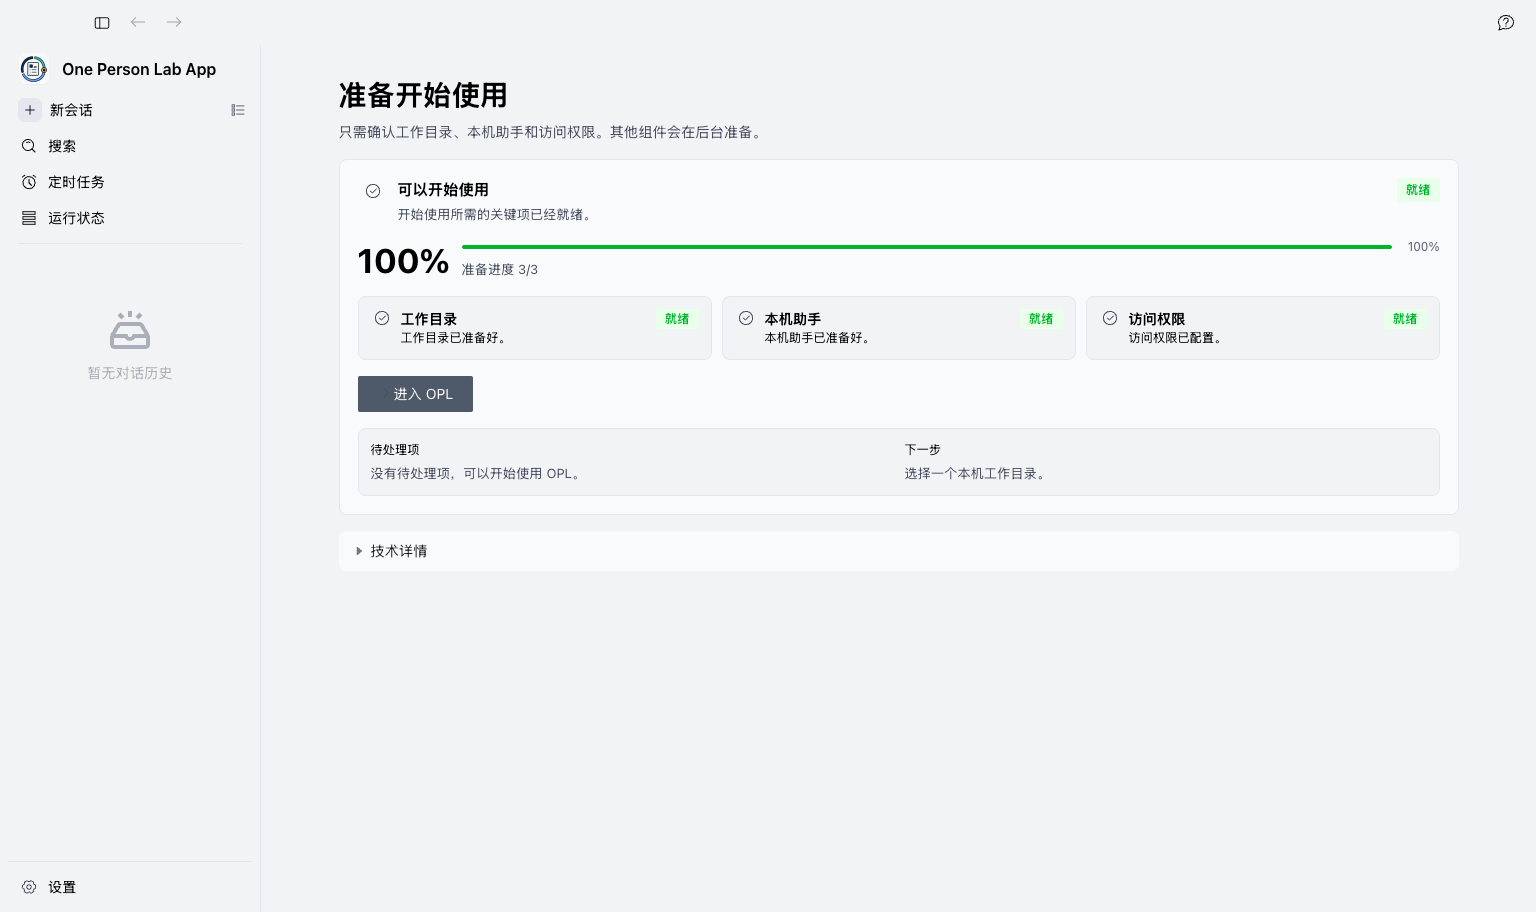
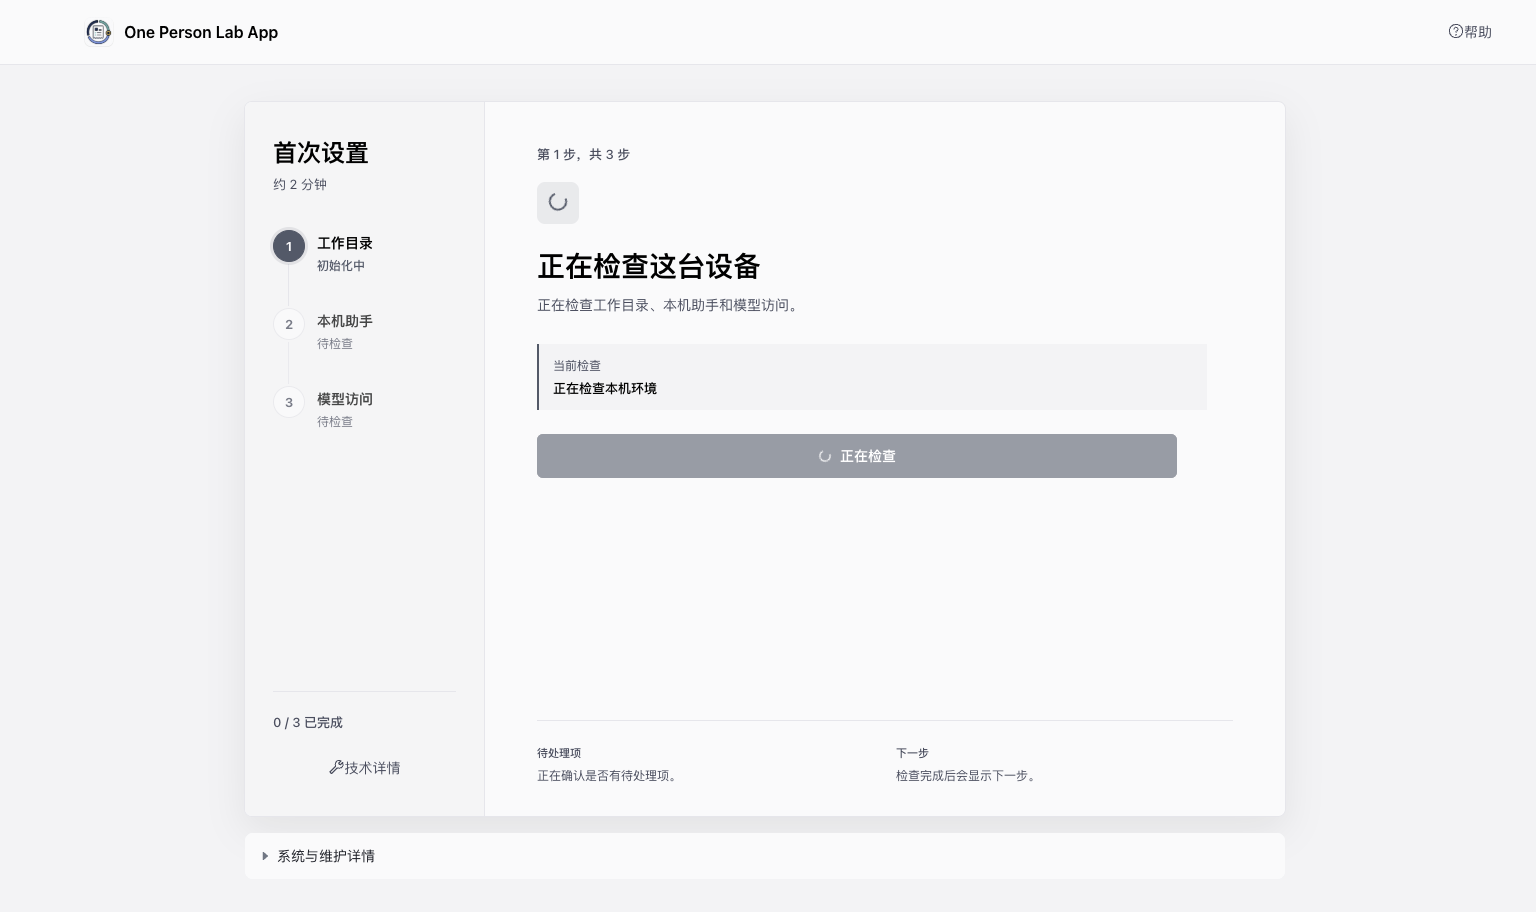
feat: bind focused first-run setup workspace

diff --git a/scripts/validate-active-shell/shell-first-run-validator.ts b/scripts/validate-active-shell/shell-first-run-validator.ts
@@ -4,6 +4,8 @@ import { readShellText } from './shell-implementation-helpers.ts';
 export function validateFirstRunImplementation(shellPaths) {
   const rendererMain = readShellText(shellPaths, 'packages/desktop/src/renderer/main.tsx');
   const appLoader = readShellText(shellPaths, 'packages/desktop/src/renderer/components/layout/AppLoader.tsx');
+  const router = readShellText(shellPaths, 'packages/desktop/src/renderer/components/layout/Router.tsx');
+  const startupGate = readShellText(shellPaths, 'packages/desktop/src/renderer/components/layout/StartupGate.tsx');
   const firstRunPage = readShellText(shellPaths, 'packages/desktop/src/renderer/pages/FirstRun/index.tsx');
   const firstRunStyles = readShellText(shellPaths, 'packages/desktop/src/renderer/pages/FirstRun/FirstRun.module.css');
   const firstRunModel = readShellText(shellPaths, 'packages/desktop/src/renderer/pages/FirstRun/initializeModel.ts');
@@ -22,6 +24,29 @@ export function validateFirstRunImplementation(shellPaths) {
     if (!appLoader.includes(expected)) {
       throw new Error(`Active shell AppLoader must expose progress steps without a blank startup window: ${expected}`);
     }
+  }
+  const firstRunRouteIndex = router.indexOf("path='/first-run'");
+  const ordinaryLayoutIndex = router.indexOf('element={<ProtectedLayout layout={layout} />}');
+  const authenticatedFirstRunRoute =
+    /<Route\s+path='\/first-run'\s+element=\{\s*<ProtectedRoute>\s*\{withRouteFallback\(FirstRun\)\}\s*<\/ProtectedRoute>\s*\}\s*\/>/.test(
+      router,
+    );
+  if (
+    !router.includes('const ProtectedRoute') ||
+    !authenticatedFirstRunRoute ||
+    firstRunRouteIndex < 0 ||
+    ordinaryLayoutIndex < 0 ||
+    firstRunRouteIndex > ordinaryLayoutIndex ||
+    router.slice(ordinaryLayoutIndex).includes("path='/first-run'")
+  ) {
+    throw new Error('Active shell FirstRun must render as an authenticated standalone route outside the ordinary product layout');
+  }
+  const skipStartupCheck = startupGate.match(/const skipStartupCheck = \(\) => \{[\s\S]*?\n  \};/)?.[0] ?? '';
+  if (
+    !skipStartupCheck.includes("navigate('/first-run', { replace: true })") ||
+    skipStartupCheck.includes("navigate('/guid'")
+  ) {
+    throw new Error('Active shell StartupGate skip must enter FirstRun instead of bypassing unknown readiness');
   }
   for (const expected of [
     'ipcBridge.oplRuntime.getInitialize.invoke()',
@@ -91,6 +116,7 @@ export function validateFirstRunImplementation(shellPaths) {
     "removeAttribute('aria-hidden')",
     "page.focus({ preventScroll: true })",
     "readyEntryRef.current?.focus({ preventScroll: true })",
+    "taskPanelRef.current?.focus({ preventScroll: true })",
   ]) {
     if (!firstRunPage.includes(expected)) {
       throw new Error(
@@ -129,6 +155,33 @@ export function validateFirstRunImplementation(shellPaths) {
   if (firstRunStyles.includes("--text-tertiary") || !firstRunStyles.includes("min-height: 44px;")) {
     throw new Error("Active shell FirstRun must use defined text tokens and 44px touch targets");
   }
+  if (!firstRunStyles.includes('grid-template-columns: repeat(3, minmax(0, 1fr));')) {
+    throw new Error('Active shell FirstRun must keep a compact three-step rail on narrow screens');
+  }
+  if (!firstRunStyles.includes('.firstRunStep:not(:last-child)::after {\n    display: block;')) {
+    throw new Error('Active shell FirstRun must render the compact narrow-screen step connector');
+  }
+  const shortWindowStyles = firstRunStyles.slice(
+    firstRunStyles.indexOf('@media (max-width: 600px) and (max-height: 700px)'),
+  );
+  for (const expected of [
+    '.firstRunStepRailHeader,',
+    '.firstRunStepProgress,',
+    '.firstRunStepCounter,',
+    '.firstRunStateIcon,',
+    '.firstRunAttentionStrip,',
+    '.firstRunTaskContext {',
+    'display: none;',
+  ]) {
+    if (!shortWindowStyles.includes(expected)) {
+      throw new Error(`Active shell FirstRun must keep the primary action visible at 400x600: ${expected}`);
+    }
+  }
+  const coreReadyStatusBlock =
+    firstRunModel.match(/const CORE_READY_ITEM_STATUSES = new Set\(\[[^\]]*\]\);/)?.[0] ?? '';
+  if (!coreReadyStatusBlock || coreReadyStatusBlock.includes("'disabled'")) {
+    throw new Error('Active shell FirstRun must never treat disabled required Core items as ready');
+  }
   for (const forbidden of ["coreProgressPercent", "<Progress", "firstRunProgressPercent"]) {
     if (
       firstRunPage.includes(forbidden) ||
@@ -165,6 +218,7 @@ export function validateFirstRunImplementation(shellPaths) {
     "redactSensitiveValue(message, trimmed)",
     "redactCommandResult(result, trimmed)",
     "throw new Error('OPL initialize payload is missing or invalid.')",
+    "matchMedia?.('(prefers-reduced-motion: reduce)')",
     "aria-labelledby='opl-first-run-setup-title'",
     "id='opl-first-run-setup-title'",
   ]) {
@@ -226,6 +280,9 @@ export function validateFirstRunImplementation(shellPaths) {
     }
   }
   for (const expected of [
+    "typeof entry.required === 'boolean'",
+    'declaredBlockingItems',
+    'setupFlow.ready_to_launch === (readyCoreItems.length === CORE_ITEM_IDS.length)',
     'ready_full_readiness_count',
     'total_full_readiness_count',
     'ready_optional_count',

diff --git a/scripts/validate-active-shell/page-state-matrix-validator.ts b/scripts/validate-active-shell/page-state-matrix-validator.ts
@@ -126,9 +126,13 @@ export function validatePageStateMatrix(matrix, contract, guiProductContract) {
     'focused setup workspace before user enters /guid',
     'fixed three-step rail with one current task panel',
     'active rail step and task panel stay aligned to the first unready Core item',
+    'authenticated standalone first-run route outside the ordinary product layout',
+    'startup preflight escape into first-run while readiness is unknown',
     'functional OPL Gateway and existing Codex access choices',
     'model access method switching and alternate actions disabled while a request is active',
     'pending state without premature ready or no-blocker claims',
+    'required Core checklist items reject disabled status as ready',
+    '400x600 minimum window keeps the current primary action visible',
     'background shell inert and aria-hidden while first-run is active',
     'macOS traffic-light safe area and non-mac desktop window controls',
     'localized accessible names without testid labels',
@@ -149,12 +153,17 @@ export function validatePageStateMatrix(matrix, contract, guiProductContract) {
     'background maintenance counters or labels in the beginner primary area',
     'ordinary product navigation before the user enters /guid',
     'focusable or screen-reader-visible ordinary shell before the user enters /guid',
+    'startup preflight skip to /guid while readiness is unknown',
+    'ordinary shortcut, tray, deep-link, or notification navigation mounted during first-run',
     'percentage progress as the dominant first-run signal',
     'simultaneous competing primary actions',
     'ready or no-blocker claims before initialize returns',
     'raw technical errors in beginner toasts',
     'testid strings as accessible names',
     'concurrent model access method actions',
+    'automatic navigation away from the FirstRun completion state',
+    'ordinary Settings routes from FirstRun technical details',
+    'submitted access keys in renderer errors or diagnostics',
   ]) {
     if (!firstLaunchPage.must_not_show?.includes(hiddenSignal)) {
       throw new Error(`First-launch readiness page must not show ${hiddenSignal}`);

diff --git a/scripts/validate-active-shell/first-run-matrix-validator.ts b/scripts/validate-active-shell/first-run-matrix-validator.ts
@@ -183,6 +183,8 @@ export function validateFirstRunMatrix(matrix, contract) {
     'Chinese locale first-run primary area does not expose Codex API Configuration, Unknown, Needs setup, raw setup_flow fields, or opl system commands',
     'OPL Gateway access key entry uses beginner-facing 访问密钥 copy while existing usable Codex model access can skip first-launch Gateway setup',
     'first-run uses a focused full-window setup workspace and hides ordinary product navigation until the user enters /guid',
+    'first-run renders as an authenticated standalone route outside the ordinary product layout',
+    'startup preflight skip enters focused first-run instead of /guid while readiness is unknown',
     'the three Core items render as a stable step rail while only the current task occupies the main panel',
     'the active rail step and task panel select the first unready Core item in fixed step order before completion',
     'Core progress uses completed step count without percentage progress',
@@ -193,6 +195,8 @@ export function validateFirstRunMatrix(matrix, contract) {
     'technical details stay inside FirstRun and do not expose ordinary Settings navigation',
     'all initialize, model access, and maintenance actions share one in-flight interaction lock',
     'initialize pending does not claim ready or no blockers before a payload returns',
+    'required Core checklist items never treat disabled status as ready',
+    'the 400x600 minimum App window keeps the current primary action visible',
     'background App shell is inert and aria-hidden until the user enters /guid',
     'macOS preserves traffic-light safe area while Windows and Linux retain desktop window controls',
     'interactive controls use localized accessible names rather than testid strings',

diff --git a/scripts/app-product-profile/profile-contract.ts b/scripts/app-product-profile/profile-contract.ts
@@ -103,7 +103,9 @@ function assertFirstRunProfileShape(profile: AppProductProfile): void {
   if (
     beginnerPresentation.layout_mode !== 'focused_setup_workspace' ||
     beginnerPresentation.ordinary_navigation_policy !== 'hidden_until_user_enters_guid' ||
-    beginnerPresentation.completion_navigation_policy !== 'manual_ready_entry_only_no_automatic_route_from_first_run'
+    beginnerPresentation.completion_navigation_policy !== 'manual_ready_entry_only_no_automatic_route_from_first_run' ||
+    beginnerPresentation.core_readiness_status_policy !== 'required_core_items_never_treat_disabled_as_ready' ||
+    beginnerPresentation.minimum_window_primary_action_policy !== '400x600_keeps_current_primary_action_visible'
   ) {
     throw new Error('Invalid App product profile first_run.beginner_presentation focused setup policy');
   }

diff --git a/scripts/validate-active-shell/app-contract-constants.ts b/scripts/validate-active-shell/app-contract-constants.ts
@@ -272,6 +272,8 @@ export const focusedFirstRunPresentationPolicy = {
   technical_detail_navigation_policy: "in_place_no_ordinary_settings_route_before_guid",
   request_exclusivity_policy: "single_inflight_initialize_or_action_across_first_run_controls",
   pending_state_policy: "no_ready_or_no_blocker_claim_before_initialize_payload",
+  core_readiness_status_policy: "required_core_items_never_treat_disabled_as_ready",
+  minimum_window_primary_action_policy: "400x600_keeps_current_primary_action_visible",
   background_shell_interaction_policy: "inert_and_aria_hidden_until_user_enters_guid",
   window_control_policy: "preserve_mac_traffic_light_safe_area_and_render_non_mac_desktop_controls",
   raw_error_policy: "localized_inline_current_task_and_technical_details_only_no_beginner_toast",

diff --git a/scripts/validate-active-shell/gui-product-contract-validator.ts b/scripts/validate-active-shell/gui-product-contract-validator.ts
@@ -422,6 +422,14 @@ export function validateAppGuiProductContract(guiContract, releaseChannel, insta
     expectedFirstRunProgressModel,
     'App GUI first-launch',
   );
+  for (const [field, expected] of Object.entries({
+    first_run_route_policy: 'authenticated_standalone_route_outside_ordinary_product_layout',
+    unknown_readiness_escape_policy: 'startup_skip_enters_first_run_never_guid',
+  })) {
+    if (firstLaunchPolicy?.startup_runtime_policy?.[field] !== expected) {
+      throw new Error('App GUI first-launch startup runtime ' + field + ' must be ' + expected);
+    }
+  }
 
   const modulePathPolicy = guiContract.module_path_source_policy;
   if (modulePathPolicy?.source !== 'app_state.modules[].source + app_state.modules[].path + app_state.paths') {

diff --git a/scripts/validate-active-shell/shared-contract-validators.ts b/scripts/validate-active-shell/shared-contract-validators.ts
@@ -2069,7 +2069,7 @@ export function validateBeginnerFirstRunPresentation(presentation, label, expect
   if (presentation.presentation_mode !== "simplified_first_run") {
     throw new Error(`${label} must use simplified_first_run presentation`);
   }
-  if (presentation.primary_user_goal !== "reach_guid_with_codex_ready") {
+  if (presentation.primary_user_goal !== "complete_first_run_then_explicitly_enter_guid") {
     throw new Error(`${label} must focus on reaching /guid with Codex ready`);
   }
   assertIncludesAll(presentation.primary_steps, expectedCoreItems, `${label} primary steps`);

diff --git a/scripts/app-product-profile/types.ts b/scripts/app-product-profile/types.ts
@@ -319,6 +319,8 @@ export type AppProductProfile = {
       technical_detail_navigation_policy: string;
       request_exclusivity_policy: string;
       pending_state_policy: string;
+      core_readiness_status_policy: string;
+      minimum_window_primary_action_policy: string;
       background_shell_interaction_policy: string;
       window_control_policy: string;
       raw_error_policy: string;

diff --git a/docs/product/gui/first-run-setup-workspace.md b/docs/product/gui/first-run-setup-workspace.md
@@ -31,6 +31,8 @@ focused tests 与用户路径截图。
 ## 桌面布局
 
 - 使用全视口 `focused_setup_workspace`，覆盖普通 Titlebar、Sider 和会话历史区。
+- `/first-run` 是认证后的独立路由，不挂载普通 Layout，因此普通快捷键、托盘、deep link 和通知导航不会卸载首启。
+- StartupGate 在 readiness 未确认时只能进入 `/first-run`，不得通过“跳过检查”进入 `/guid`。
 - 顶部是精简品牌栏，只显示 One Person Lab 品牌与帮助入口。
 - macOS 品牌栏保留 traffic lights 安全区；Windows/Linux 复用现有最小化、最大化和关闭按钮。
 - 主工作区最大宽度约 1040px，采用 `240px + 1fr` 两栏。
@@ -40,7 +42,7 @@ focused tests 与用户路径截图。
 - 技术详情在工作区下方折叠，帮助入口可以打开该折叠区。
 
 普通导航在用户主动进入 `/guid` 之前不可见，包括 `ready_to_launch` 已成立但仍停留在完成态时。
-背景 shell 同时必须设置 `inert` 和 `aria-hidden`，首焦点留在 FirstRun；卸载首启页时恢复原属性。
+普通 Layout 不挂载；FirstRun 仍对根节点内的非自身 sibling 设置 `inert` 和 `aria-hidden`，首焦点留在 FirstRun；卸载首启页时恢复原属性。
 首启页不得把新会话、搜索、定时任务、运行状态、设置或空会话历史作为首次配置的视觉或交互竞争项。
 
 ## 模型访问
@@ -87,6 +89,7 @@ focused tests 与用户路径截图。
 
 - 窄屏下步骤栏移动到任务面板上方，保持三步顺序和状态语义。
 - 输入框、分段控件和主按钮在手机宽度下改为单列，不产生横向滚动。
+- 在 App 允许的 400×600 最小窗口中，隐藏重复标题、完成计数、提示性图标和二级上下文，保留紧凑三步轨道、当前任务、必要输入与完整主操作；主按钮必须在首屏可见。
 - 状态必须同时使用图标和文本，不只依赖颜色。
 - 交互控件触控目标不小于 44px。
 - 所有交互使用 Arco 组件，保留键盘焦点与可见字段标签；可访问名称使用本地化可见文本或 `aria-labelledby`，不得使用 testid。
@@ -98,6 +101,7 @@ focused tests 与用户路径截图。
 ## 不做的事
 
 - 不改变 `ready_to_launch` 语义和 Core required items。
+- required Core item 的 `disabled` 状态不得计为 ready；只有真实可用状态、非 blocking、计数和 blocking 集合一致时才接受 `ready_to_launch`。
 - 不让 full readiness 或后台维护阻塞进入 `/guid`。
 - 不增加新的 runtime、provider 或配置真相源。
 - 不修改 AionUI 通用 Layout/Sider fork body；专注模式由 OPL FirstRun overlay 实现。
@@ -111,4 +115,4 @@ focused tests 与用户路径截图。
 - first-run test matrix 覆盖专注模式、三步栏、无百分比和两条访问路径。
 - active shell DOM 测试覆盖 initialize pending、Gateway 配置、已有 Codex 重检、完成态和技术详情。
 - i18n、TypeScript 与 package build 通过。
-- 桌面与窄屏截图证明普通导航被遮蔽、文本无溢出、主操作清晰、状态切换不造成结构跳动。
+- 桌面、常规窄屏与 400×600 最小窗口截图证明普通导航不存在、文本无溢出、主操作清晰、状态切换不造成结构跳动。
